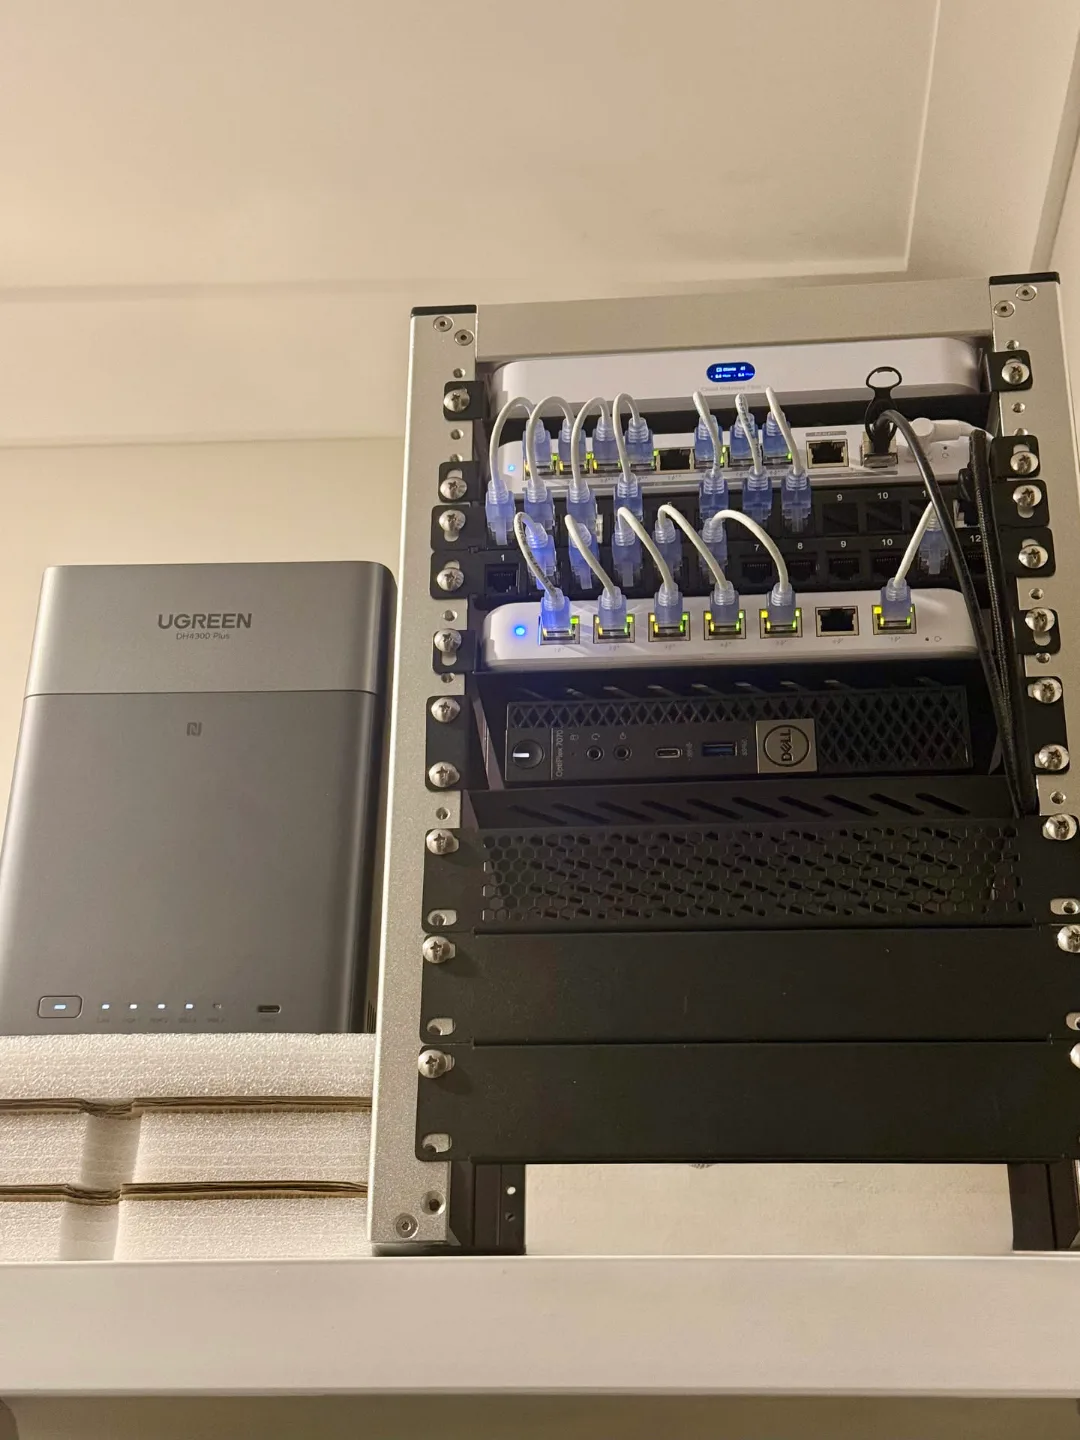
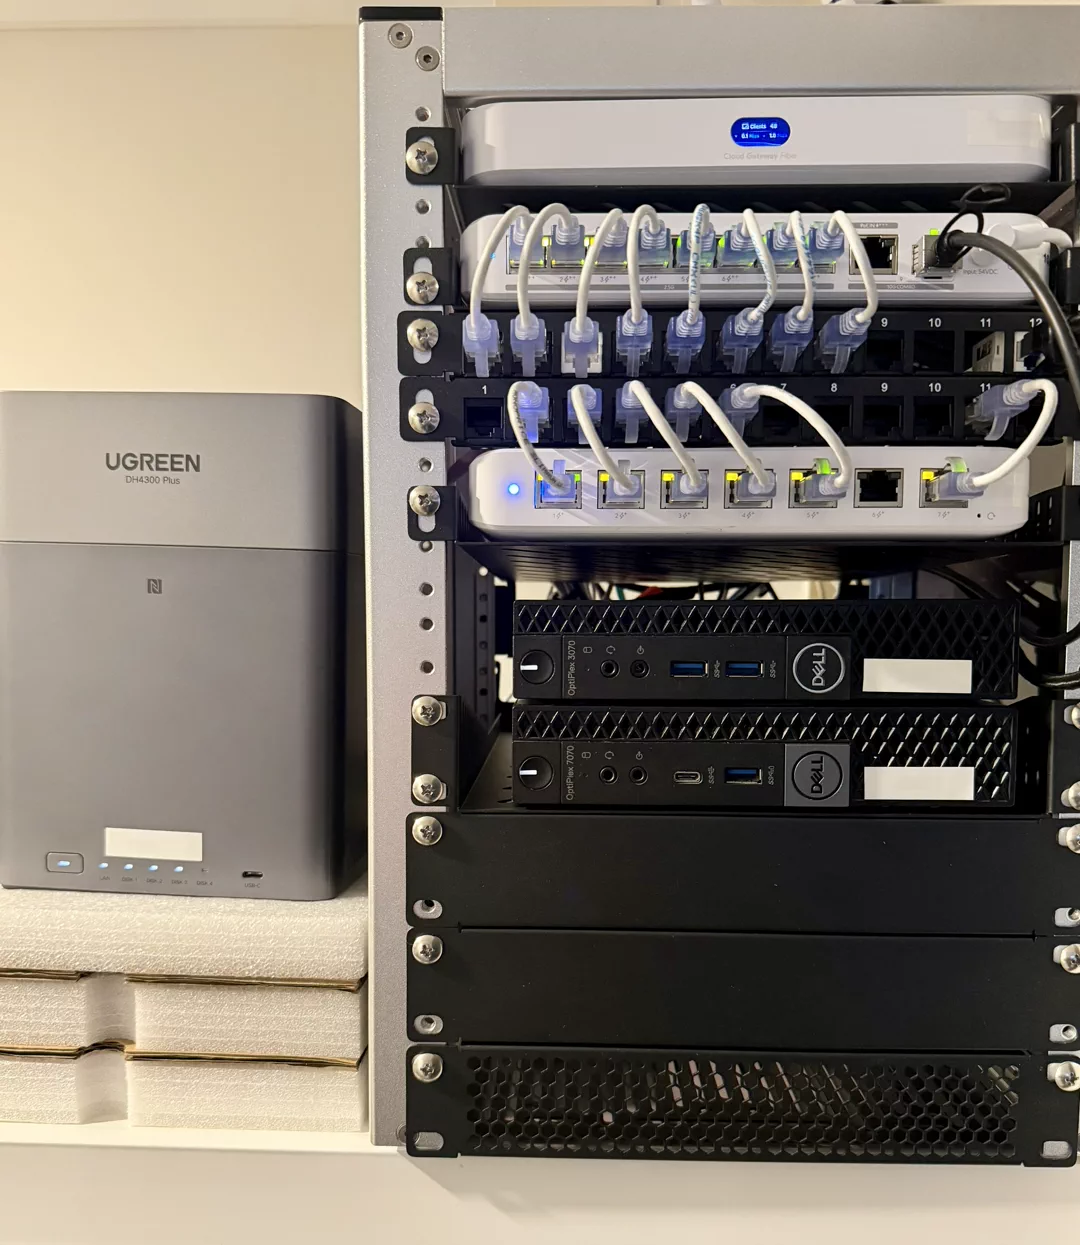
content: update the homelab rack photo
Replaces the rack shot with a current one taken closer in. The previous
photo predated the second node and showed only the 7070; both OptiPlex
Micros are now visible, along with the full patch panel and switch
cabling.

Image dimensions changed from 1080x1440 to 1080x1245, so the width and
height attributes move with them. Leaving them at 1440 would reserve the
wrong box and shift layout on mobile, where the figure renders at its
natural aspect rather than object-fit: cover.

Alt text corrected from "a Dell OptiPlex 7070 node" to "the two Dell
OptiPlex Micro nodes" to match what is actually in frame.

Checked before publishing: label plates on both machines are blank, the
gateway OLED shows only client count and throughput, and the WebP encode
carries no EXIF.

diff --git a/portfolio/homelab/index.html b/portfolio/homelab/index.html
@@ -69,7 +69,7 @@
   <div class="sec-head rv"><span class="chip">At a Glance</span><h2>The rack, <span class="vio">by the numbers.</span></h2></div>
   <div class="hl-bento">
     <figure class="photo-fig rv">
-      <img src="/assets/homelab-rack.webp" width="1080" height="1440" alt="The N5HQ homelab rack — UniFi Cloud Gateway Fibre, patch panel and Flex switch cabled above a Dell OptiPlex 7070 node, with the UGREEN DH4300 Plus NAS alongside.">
+      <img src="/assets/homelab-rack.webp" width="1080" height="1245" alt="The N5HQ homelab rack — UniFi Cloud Gateway Fibre, patch panel and Flex switch cabled above the two Dell OptiPlex Micro nodes, with the UGREEN DH4300 Plus NAS alongside.">
       <figcaption>The actual rack — gateway · patch panel · switch · compute, NAS alongside</figcaption>
     </figure>
     <div class="hl-col">
